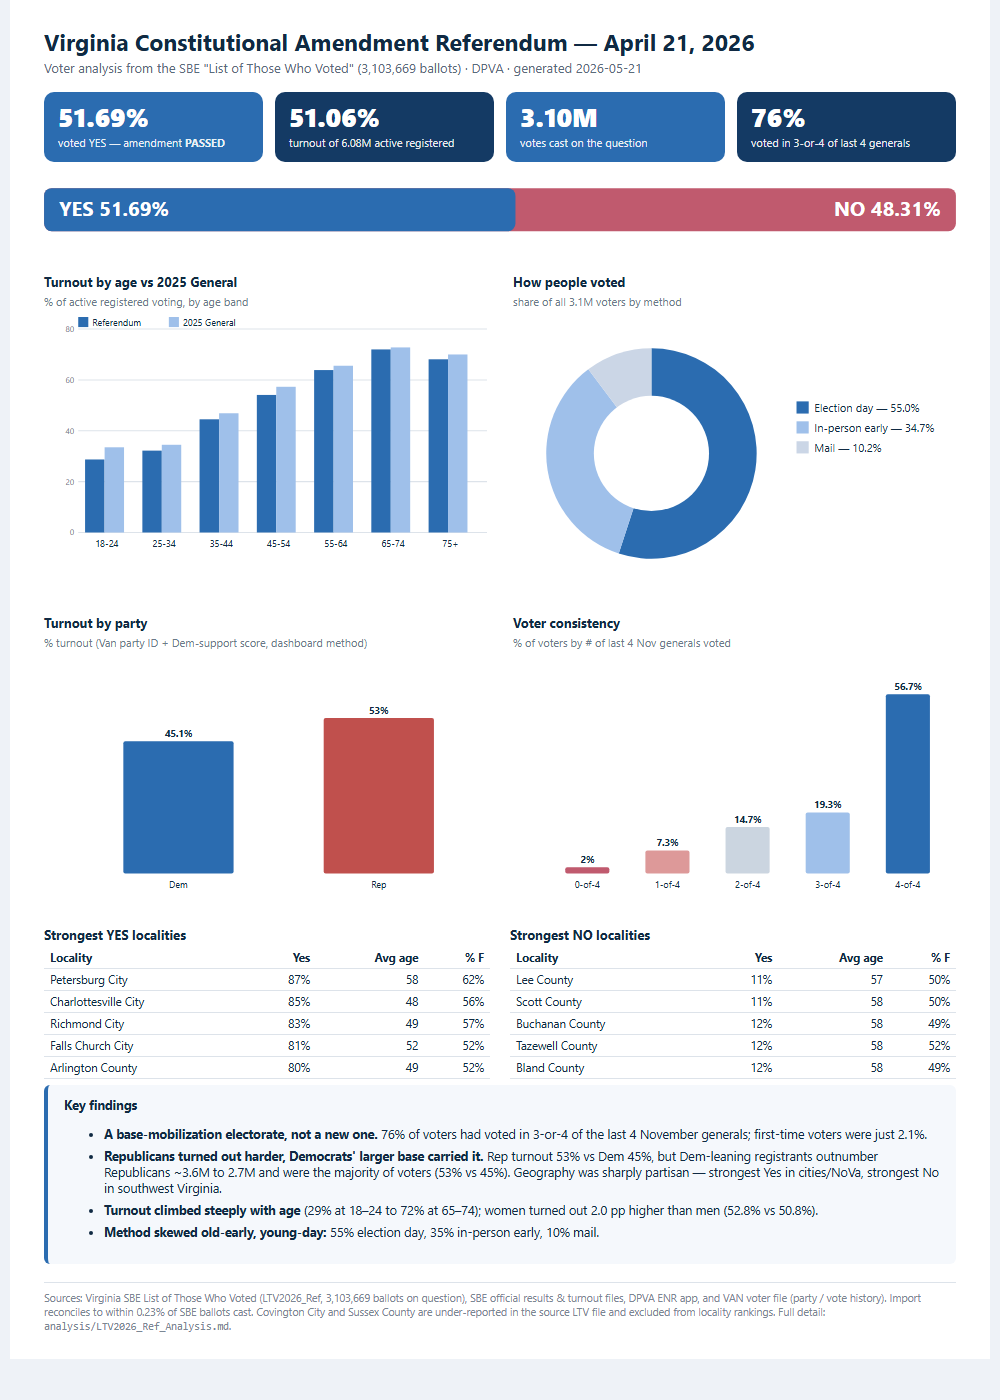
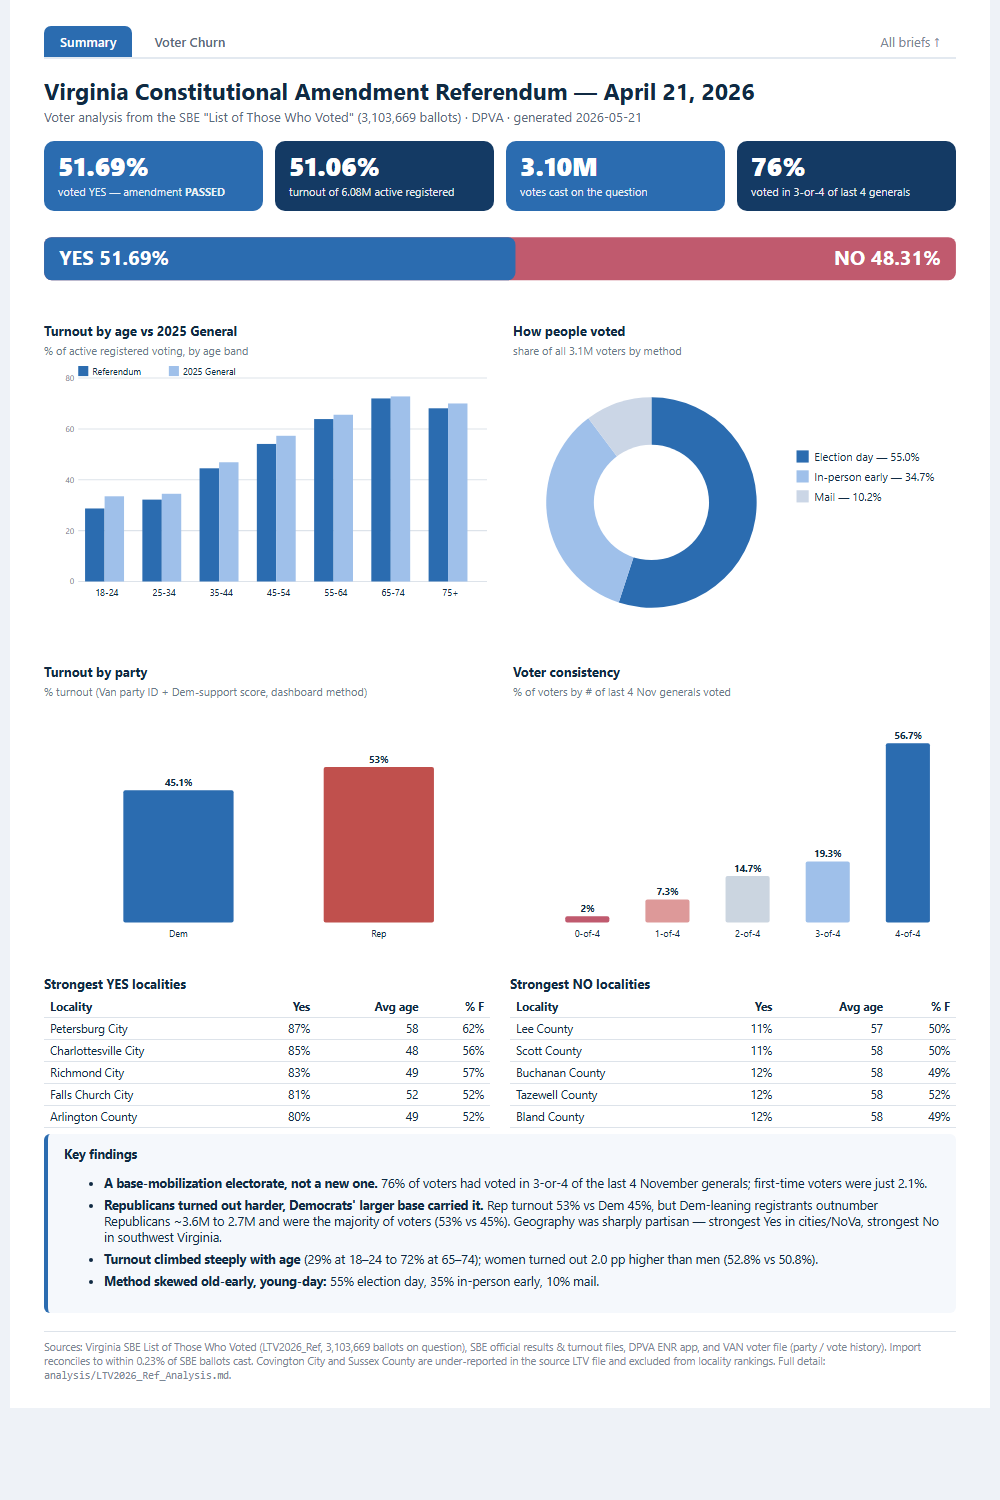
Add Summary/Churn tab nav to briefs + two-tile landing index
- make_publication.py / make_churn_brief.py: shared web-only nav bar
  (Summary | Voter Churn | All briefs); hidden in print so PDFs stay one page
- index.html: two-tile landing linking both briefs (with preview thumbnails),
  replacing the auto-redirect
- regenerated both briefs (HTML/PDF/PNG); PDFs verified still 1 page

diff --git a/index.html b/index.html
@@ -2,12 +2,54 @@
 <html lang="en">
 <head>
   <meta charset="utf-8">
-  <meta http-equiv="refresh" content="0; url=analysis/Referendum2026_Summary.html">
-  <link rel="canonical" href="analysis/Referendum2026_Summary.html">
+  <meta name="viewport" content="width=device-width, initial-scale=1">
   <title>April 21, 2026 Referendum — Voter Analysis</title>
+  <style>
+    * { box-sizing: border-box; }
+    body { font-family:'Segoe UI',Helvetica,Arial,sans-serif; color:#102a43; background:#eef2f7; margin:0; }
+    .wrap { max-width:900px; margin:0 auto; padding:40px 28px; }
+    h1 { font-size:24px; margin:0 0 4px; }
+    .sub { color:#5a6b7b; font-size:14px; margin:0 0 26px; }
+    .tiles { display:grid; grid-template-columns:1fr 1fr; gap:22px; }
+    .tile { display:block; background:#fff; border:1px solid #dde3ea; border-radius:12px; overflow:hidden;
+            text-decoration:none; color:#102a43; transition:box-shadow .15s, transform .15s; }
+    .tile:hover { box-shadow:0 8px 22px rgba(16,42,67,.14); transform:translateY(-2px); }
+    .tile img { width:100%; height:240px; object-fit:cover; object-position:top; border-bottom:1px solid #e3e9f0; background:#fff; }
+    .tile .body { padding:14px 18px 18px; }
+    .tile .t { font-size:17px; font-weight:700; }
+    .tile .d { font-size:13px; color:#5a6b7b; margin-top:5px; line-height:1.45; }
+    .more { font-size:13px; color:#5a6b7b; margin-top:26px; }
+    .more a { color:#2b6cb0; }
+    @media (max-width:680px){ .tiles{ grid-template-columns:1fr; } }
+  </style>
 </head>
-<body style="font-family:'Segoe UI',Arial,sans-serif;color:#102a43;margin:48px;">
-  <p>Redirecting to the
-     <a href="analysis/Referendum2026_Summary.html">April&nbsp;21, 2026 Virginia Constitutional Amendment Referendum — voter analysis brief</a>…</p>
+<body>
+  <div class="wrap">
+    <h1>Virginia Constitutional Amendment Referendum — April 21, 2026</h1>
+    <p class="sub">DPVA voter analysis · amendment <b>passed 51.69% Yes</b> on <b>51.06% turnout</b> (3.1M voters)</p>
+
+    <div class="tiles">
+      <a class="tile" href="analysis/Referendum2026_Summary.html">
+        <img src="analysis/Referendum2026_Summary_preview.png" alt="Summary brief preview">
+        <div class="body">
+          <div class="t">Summary brief</div>
+          <div class="d">Who showed up — turnout by age, vote method, party, and geography, plus the strongest Yes/No localities.</div>
+        </div>
+      </a>
+      <a class="tile" href="analysis/Referendum2026_Churn_Brief.html">
+        <img src="analysis/Referendum2026_Churn_Brief_preview.png" alt="Voter churn brief preview">
+        <div class="body">
+          <div class="t">Voter churn</div>
+          <div class="d">Drop-off &amp; surge vs the 2025 General — who the electorate lost (690,881) and gained (332,415) by April 2026.</div>
+        </div>
+      </a>
+    </div>
+
+    <p class="more">
+      Full written analysis (5a–5j):
+      <a href="https://github.com/brennertobe07/referendum-2026/blob/main/analysis/LTV2026_Ref_Analysis.md">LTV2026_Ref_Analysis.md</a>
+      &nbsp;·&nbsp; <a href="https://github.com/brennertobe07/referendum-2026">project repository</a>
+    </p>
+  </div>
 </body>
 </html>

diff --git a/analysis/Referendum2026_Churn_Brief.html b/analysis/Referendum2026_Churn_Brief.html
@@ -22,8 +22,16 @@
   .foot { margin-top:16px; font-size:10.5px; color:#7b8794; border-top:1px solid #dde3ea; padding-top:8px; }
   @page { size:letter; margin:0; }
   @media print { body { background:#fff; } .page { padding:9mm 12mm; max-width:none; zoom:0.82; } }
-</style></head><body><div class="page">
+  
+  .nav { display:flex; gap:6px; margin:0 0 16px; border-bottom:2px solid #e3e9f0; }
+  .nav a { padding:7px 16px; font-size:13px; font-weight:600; color:#5a6b7b; text-decoration:none; border-radius:7px 7px 0 0; }
+  .nav a:hover { background:#eef2f7; }
+  .nav a.active { color:#fff; background:#2b6cb0; }
+  .nav a.home { margin-left:auto; font-weight:400; color:#7b8794; align-self:center; }
+  @media print { .nav { display:none !important; } }
 
+</style></head><body><div class="page">
+<div class="nav"><a href="Referendum2026_Summary.html">Summary</a><a href="Referendum2026_Churn_Brief.html" class="active">Voter Churn</a><a href="../index.html" class="home">All briefs ↑</a></div>
 <h1>Referendum 2026 — Voter Churn: Drop-off &amp; Surge</h1>
 <div class="sub">Who left and who arrived between the 2025 General and the April 21, 2026 referendum · DPVA · 2026-05-21</div>
 

diff --git a/analysis/Referendum2026_Summary.html b/analysis/Referendum2026_Summary.html
@@ -27,8 +27,16 @@
   @page { size: letter; margin: 0; }
   /* print-only: scale the whole layout to fit a single US Letter page */
   @media print { body { background:#fff; } .page { padding: 8mm 12mm; max-width:none; zoom: 0.70; } }
-</style></head><body><div class="page">
+  
+  .nav { display:flex; gap:6px; margin:0 0 16px; border-bottom:2px solid #e3e9f0; }
+  .nav a { padding:7px 16px; font-size:13px; font-weight:600; color:#5a6b7b; text-decoration:none; border-radius:7px 7px 0 0; }
+  .nav a:hover { background:#eef2f7; }
+  .nav a.active { color:#fff; background:#2b6cb0; }
+  .nav a.home { margin-left:auto; font-weight:400; color:#7b8794; align-self:center; }
+  @media print { .nav { display:none !important; } }
 
+</style></head><body><div class="page">
+<div class="nav"><a href="Referendum2026_Summary.html" class="active">Summary</a><a href="Referendum2026_Churn_Brief.html">Voter Churn</a><a href="../index.html" class="home">All briefs ↑</a></div>
 <h1>Virginia Constitutional Amendment Referendum — April 21, 2026</h1>
 <div class="sub">Voter analysis from the SBE "List of Those Who Voted" (3,103,669 ballots) · DPVA · generated 2026-05-21</div>
 

diff --git a/analysis/make_publication.py b/analysis/make_publication.py
@@ -34,6 +34,25 @@ REP = "#c0504d"
 IND = "#9aa3ad"
 GRID = "#dde3ea"
 
+# Shared web-only tab nav (hidden in print so the PDFs stay clean one-pagers).
+NAV_CSS = """
+  .nav { display:flex; gap:6px; margin:0 0 16px; border-bottom:2px solid #e3e9f0; }
+  .nav a { padding:7px 16px; font-size:13px; font-weight:600; color:#5a6b7b; text-decoration:none; border-radius:7px 7px 0 0; }
+  .nav a:hover { background:#eef2f7; }
+  .nav a.active { color:#fff; background:#2b6cb0; }
+  .nav a.home { margin-left:auto; font-weight:400; color:#7b8794; align-self:center; }
+  @media print { .nav { display:none !important; } }
+"""
+
+
+def nav_html(active):
+    def c(k):
+        return ' class="active"' if k == active else ''
+    return ('<div class="nav">'
+            f'<a href="Referendum2026_Summary.html"{c("summary")}>Summary</a>'
+            f'<a href="Referendum2026_Churn_Brief.html"{c("churn")}>Voter Churn</a>'
+            '<a href="../index.html" class="home">All briefs ↑</a></div>')
+
 
 def esc(s):
     return str(s).replace("&", "&amp;").replace("<", "&lt;").replace(">", "&gt;")
@@ -171,8 +190,9 @@ def main():
   @page {{ size: letter; margin: 0; }}
   /* print-only: scale the whole layout to fit a single US Letter page */
   @media print {{ body {{ background:#fff; }} .page {{ padding: 8mm 12mm; max-width:none; zoom: 0.70; }} }}
+  {NAV_CSS}
 </style></head><body><div class="page">
-
+{nav_html('summary')}
 <h1>Virginia Constitutional Amendment Referendum — April 21, 2026</h1>
 <div class="sub">Voter analysis from the SBE "List of Those Who Voted" ({s['total']:,} ballots) · DPVA · generated 2026-05-21</div>
 

diff --git a/analysis/make_churn_brief.py b/analysis/make_churn_brief.py
@@ -11,7 +11,7 @@ Aggregate only — no PII.
 """
 from pathlib import Path
 import pandas as pd
-from make_publication import svg_bars, esc, INK, BLUE, LBLUE, DEM, REP
+from make_publication import svg_bars, esc, INK, BLUE, LBLUE, DEM, REP, NAV_CSS, nav_html
 
 PROJ = Path(r"C:\DPVA_Projects\Referendum2026")
 XLSX = PROJ / "analysis" / "LTV2026_Ref_Analysis.xlsx"
@@ -86,8 +86,9 @@ def main():
   .foot {{ margin-top:16px; font-size:10.5px; color:#7b8794; border-top:1px solid #dde3ea; padding-top:8px; }}
   @page {{ size:letter; margin:0; }}
   @media print {{ body {{ background:#fff; }} .page {{ padding:9mm 12mm; max-width:none; zoom:0.82; }} }}
+  {NAV_CSS}
 </style></head><body><div class="page">
-
+{nav_html('churn')}
 <h1>Referendum 2026 — Voter Churn: Drop-off &amp; Surge</h1>
 <div class="sub">Who left and who arrived between the 2025 General and the April 21, 2026 referendum · DPVA · 2026-05-21</div>
 